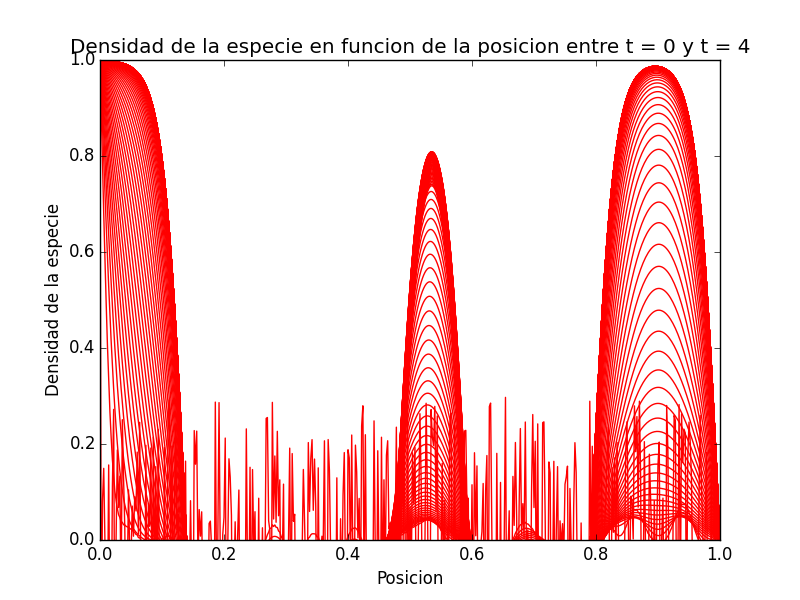
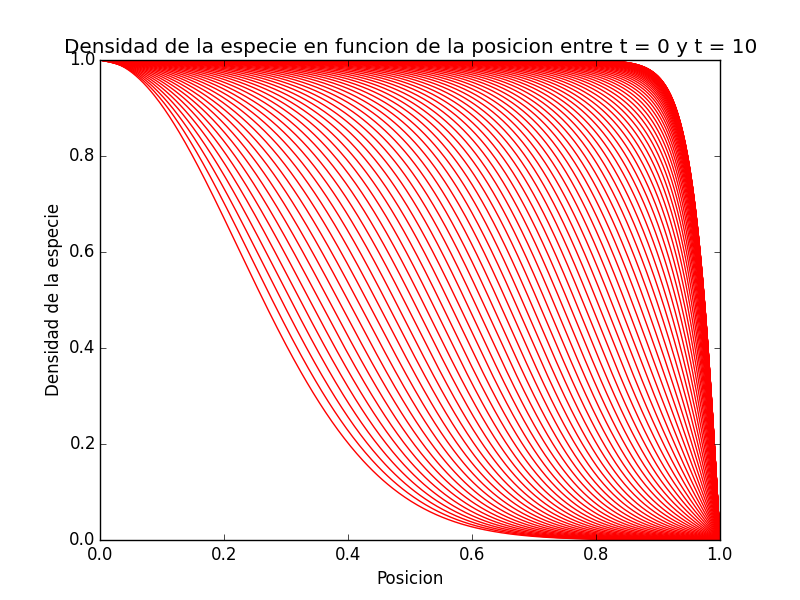
Cambios menos a plots, generacion de imagenes

diff --git a/Solution_to_Newell-Whitehead-Segel.py b/Solution_to_Newell-Whitehead-Segel.py
@@ -9,8 +9,7 @@ import numpy as np
 from mpl_toolkits.mplot3d import Axes3D
 import matplotlib.pyplot as plt
 
-np.random.seed(10)
-#-implementar Crank-N
+np.random.seed(555)
 
 def inicializa_N(N, N_steps, h):
     '''
@@ -18,7 +17,7 @@ def inicializa_N(N, N_steps, h):
     Se asegura que las condiciones en los bordes sean uno y cero.
     '''
     N = np.random.uniform(low=-0.3, high=0.3, size=N_steps)
-    print N[0], N[1],N[2]
+
     N[0] = 1
     N[-1] = 0
     return N
@@ -64,7 +63,7 @@ alpha = np.zeros(N_steps)
 beta = np.zeros(N_steps)
 
 N = inicializa_N(N, N_steps, h)
-print N[0],N[1],N[2]
+
 # Queremos guardar las soluciones en cada paso
 N_solucion = np.zeros((N_pasos_temporales, N_steps))
 N_solucion[0, :] = N.copy()
@@ -92,9 +91,9 @@ for i in range(0, N_pasos_temporales, 10):
 #ax.set_ylim(0, 1)
 
 plt.xlabel('Posicion')
-plt.ylabel('Densidad de la especie')
-plt.title("Densidad de la especie en funcion de la posicion entre t = 0 y t = 4")
-plt.savefig("Imagen_1")
+plt.ylabel(r'$n(x,t)$')
+plt.title(r"$n$ en funcion de la posicion entre t = 0 y t = 10")
+plt.savefig("2imagen_1")
 #Plot 2
 
 fig2 = plt.figure(2)
@@ -110,9 +109,11 @@ fig2 = plt.gcf()
 plt.sci(line_segments)
 
 plt.xlabel('Posicion')
-plt.ylabel('Densidad de la especie')
-plt.title("Densidad de la especie en funcion de la posicion entre t = 0 y t = 4")
-plt.savefig("Imagen_2")
+plt.ylabel(r'$n(x,t)$')
+plt.title(r"$n$ en funcion de la posicion entre t = 0 y t = 10")
+plt.ylim(-1,1)
+plt.savefig("2imagen_2")
+
 # PLOT 3
 # usar el plano x, t y plotear N en la 3a dimension
 
@@ -126,7 +127,7 @@ ax3.pcolormesh(X, Y, N_solucion)
 
 plt.xlabel('Posicion')
 plt.ylabel('Tiempo')
-plt.title("Plano distancia-tiempo con densidad en la tercera dimension")
-plt.savefig("Imagen_3")
+plt.title(r"Plano Posicion-Tiempo con $n(x,t)$ en la tercera dimension")
+plt.savefig("2imagen_3")
 plt.show()
 plt.draw()

diff --git a/Solution_to_Fisher-KPP.py b/Solution_to_Fisher-KPP.py
@@ -48,7 +48,7 @@ def avanza_paso_temporal(N, N_next, alpha, beta, N_steps, mu=1.5):
 # Main
 # setup
 N_steps = 501
-N_pasos_temporales = 400
+N_pasos_temporales = 1000
 gamma=0.001
 #mu=1.5
 
@@ -93,7 +93,7 @@ ax.set_ylim(0, 1)
 
 plt.xlabel('Posicion')
 plt.ylabel('Densidad de la especie')
-plt.title("Densidad de la especie en funcion de la posicion entre t = 0 y t = 4")
+plt.title("Densidad de la especie en funcion de la posicion entre t = 0 y t = 10")
 plt.savefig("Imagen_1")
 #Plot 2
 
@@ -111,7 +111,7 @@ plt.sci(line_segments)
 
 plt.xlabel('Posicion')
 plt.ylabel('Densidad de la especie')
-plt.title("Densidad de la especie en funcion de la posicion entre t = 0 y t = 4")
+plt.title("Densidad de la especie en funcion de la posicion entre t = 0 y t = 10")
 plt.savefig("Imagen_2")
 # PLOT 3
 # usar el plano x, t y plotear N en la 3a dimension
